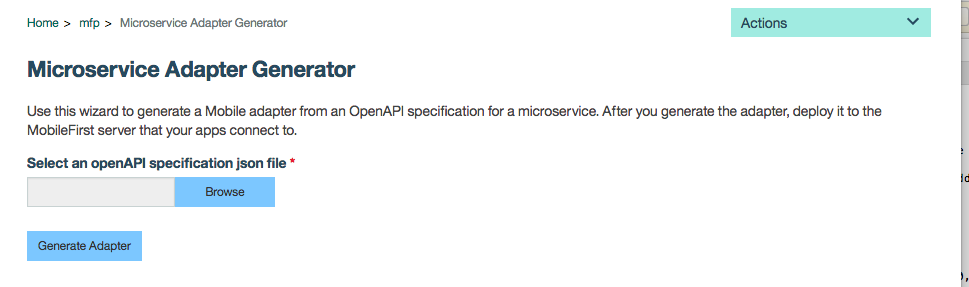
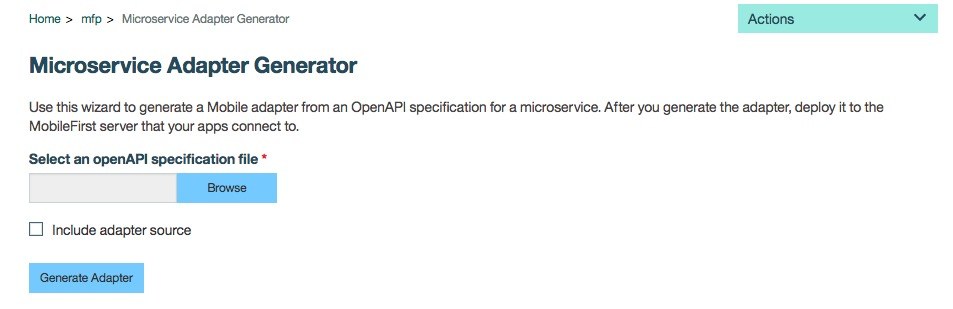
Changes to microservices adapter doc
https://github.ibm.com/sreelathas/RecordWI/issues/13

diff --git a/tutorials/en/foundation/8.0/adapters/microservice-adapter/index.md b/tutorials/en/foundation/8.0/adapters/microservice-adapter/index.md
@@ -18,7 +18,7 @@ Auto-generation of an adapter from its OpenAPI specification (Swagger Specificat
 
 >**Note:** This feature is available only in DevKit.
 
-To use this feature, the OpenAPI specification JSON for the microservice (or the desired back-end service) should be available. The adapter generation feature is made available by an extension adapter called **Microservice Connector**, also referred to as **Microservice Adapter Generator**, which is available for download from the **Download Center** on {{ site.data.keys.product }} Console.
+To use this feature, the OpenAPI specification (.json or .yaml) for the microservice (or the desired back-end service) should be available. The adapter generation feature is made available by an extension adapter called **Microservice Connector**, also referred to as **Microservice Adapter Generator**, which is available for download from the **Download Center** on {{ site.data.keys.product }} Console.
 
 >**Note:** As a prerequisite, configure the JAVA_HOME variable to point to the installed JDK folder.
 
@@ -32,12 +32,12 @@ Download the **Microservice Adapter Generator** adapter and deploy it to {{ site
   ![Image of Adapter generator in navigation pane](./AdapterGen_naviagtionPane.png)
 
 
-Clicking the **Microservice Adapter Generator** will launch the page, where the user can provide the OpenAPI Specification JSON file and can choose to generate the adapter from the provided OpenAPI specification.
+Clicking the **Microservice Adapter Generator** will launch the page, where the user can provide the OpenAPI Specification (.json or .yaml) file and can choose to generate the adapter from the provided OpenAPI specification.
 
   ![Image of Adapter generator page](./AdapterGen_generationPage.png)
 
 
-After the adapter is generated it will be automatically downloaded to the browser. The user is then required to deploy the generated adapter, for use in their apps.
+After the adapter is generated it will be automatically downloaded to the browser. The user is then required to deploy the generated adapter, for use in their apps. Selecting the option **Include adapter source** will download the adapter source code and generated adapter as a zip file. User can modify the generated adapter source code, rebuild and deploy the adapter.
 
 The adapter generator depends on the accuracy of the OpenAPI specification JSON. If the specification is incomplete or incorrect, the generation may fail or may result in the generation of adapter APIs that do not match the APIs of the back-end microservices.
 
